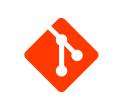
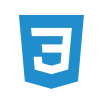
cambie el orden de las imagenes, le puse la c en minusculas, cambiamos el color del borde de las imagenes... todos estos detalles agregdos por que rebeca es una obsesiva a los detalles ;)

diff --git a/index.html b/index.html
@@ -10,7 +10,7 @@
 
 <body>
     <div>
-        <h1 class="tittle-parrafo-1">Mis Conocimientos</h1>
+        <h1 class="tittle-parrafo-1">Mis conocimientos</h1>
         <h3 class="text-parrafo-1">Lorem ipsum dolor sit amet consectetur <br/> adipisicing elit. Beatae eaque neque molestias <br/>consequuntur vel ab quas architecto.</h3>
     </div>
 

diff --git a/style.css b/style.css
@@ -14,7 +14,7 @@ body {
     height: 130px;
     width: 130px;
     display: inline-block;
-    border: 2px solid #aeaeae;
+    border: 2px solid #DDDFE5;
     padding: 60px;
     margin: 30px;
     border-radius: 8px;
